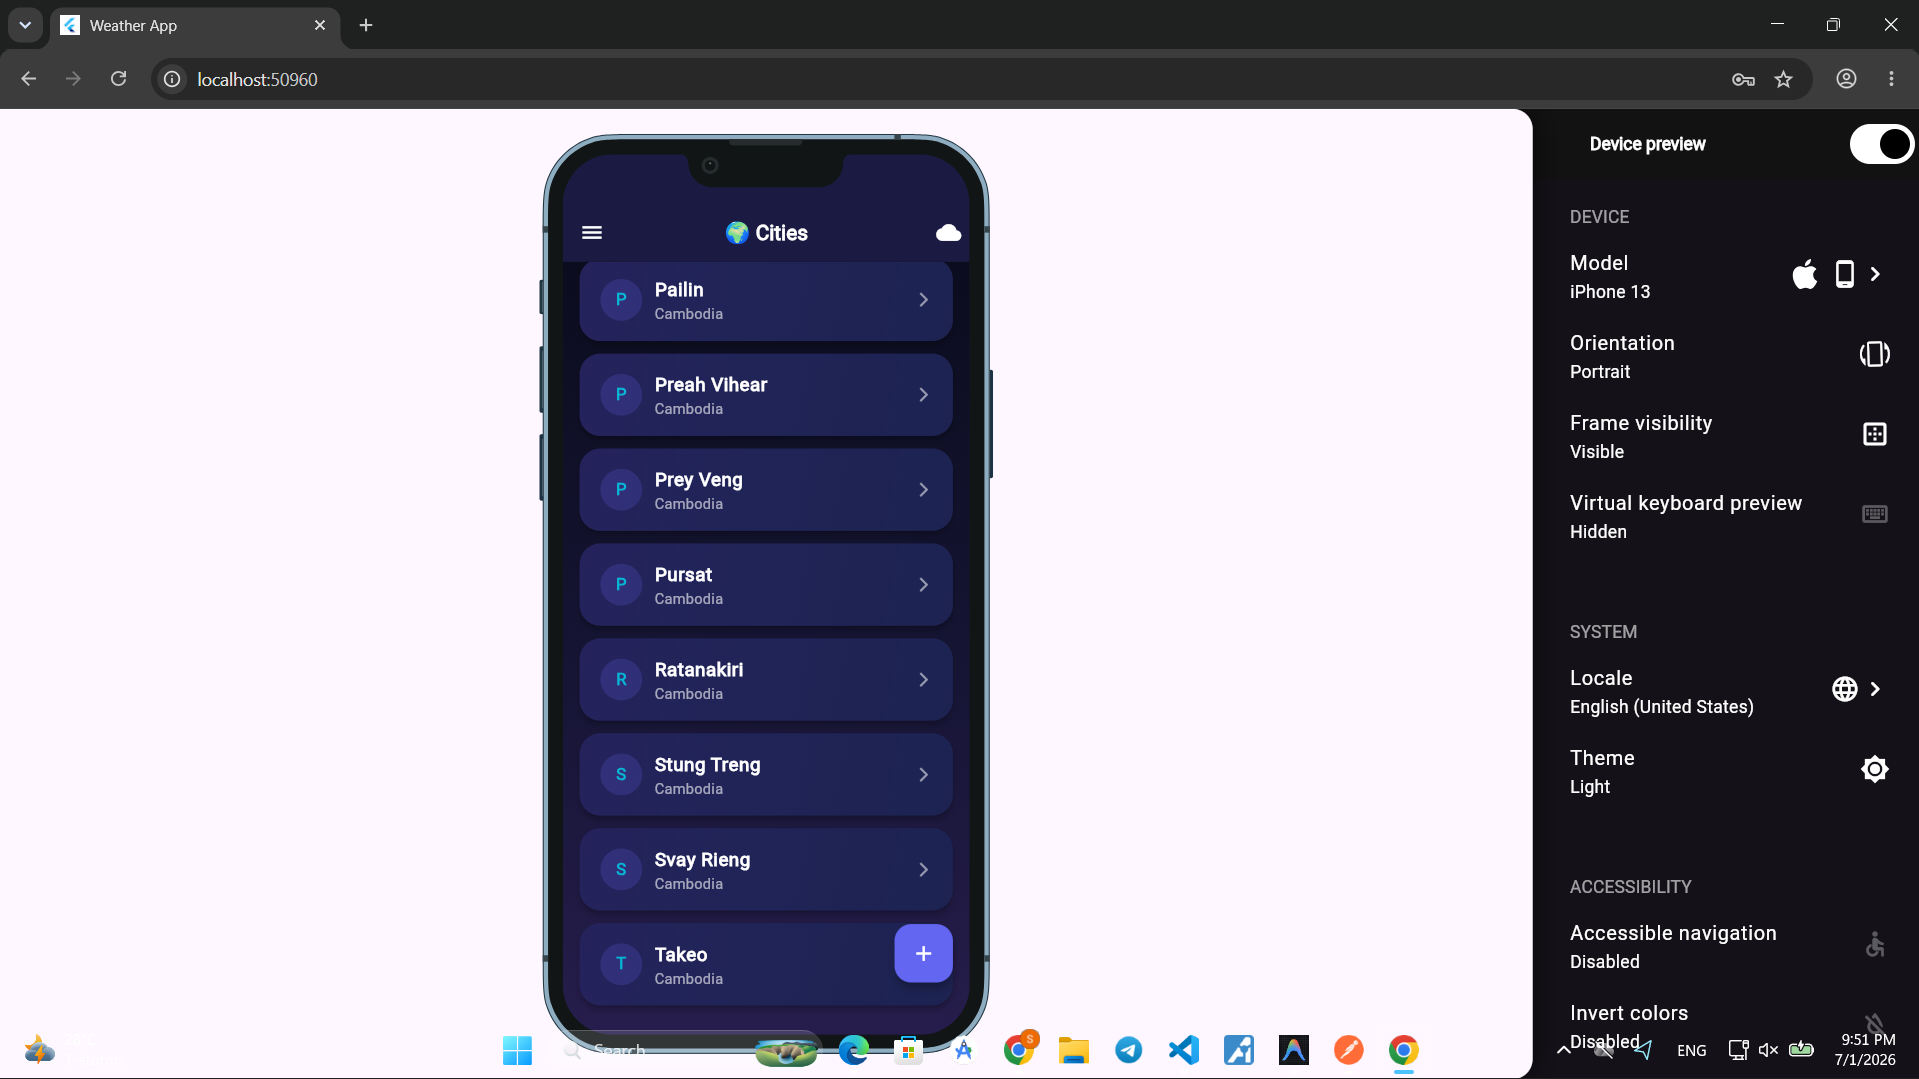
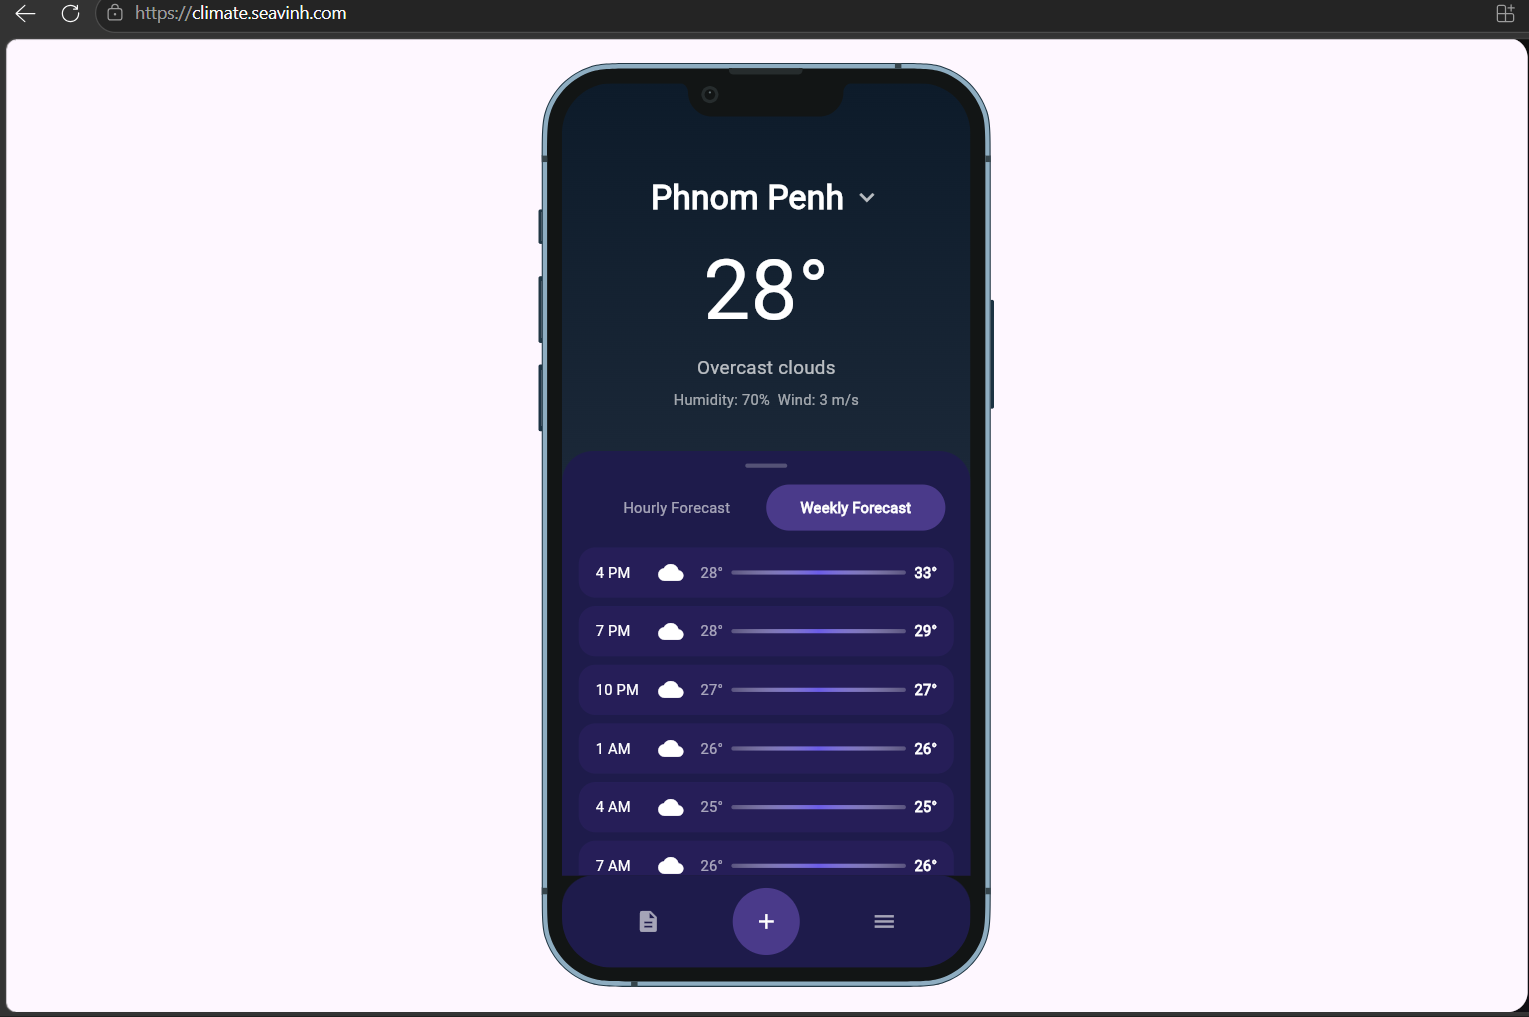
fix ui

diff --git a/src/app/app.ts b/src/app/app.ts
@@ -20,7 +20,7 @@ export class App implements OnInit, AfterViewInit {
 
   skills = [
     'HTML5 & CSS3', 'JavaScript (ES6+)', 'TypeScript',
-    'Angular', 'React', 'Node.js',
+    'Angular', 'Node.js',
     'TailwindCSS', 'Supabase', 'Dart', 'Flutter', 'Laravel',
     'Figma', 'Git'
   ];
@@ -42,7 +42,7 @@ export class App implements OnInit, AfterViewInit {
       title: 'Inventory System',
       description: 'A web-based inventory management system for tracking products, managing stock, and monitoring sales efficiently.',
       techs: ['Angular', 'Node.js', 'MongoDB'],
-      demo: 'https://stock-inventory-frontend-eight.vercel.app/',
+      demo: 'https://inventorypro.seavinh.com',
       github: 'https://github.com/seavinh/stock-inventory-frontend',
       imageUrl: '/image/Inventory.png'
     },
@@ -66,7 +66,7 @@ export class App implements OnInit, AfterViewInit {
       title: 'Football Booking App',
       description: 'A mobile application that allows users to book football fields, manage reservations, and view available time slots.',
       techs: ['flutter', 'dart', 'supabase'],
-      demo: 'https://football-booking-app.vercel.app/#/login',
+      demo: 'https://myfootball.seavinh.com',
       github: 'https://github.com/seavinh/football-booking',
       imageUrl: '/image/football-booking.png'
     },
@@ -76,7 +76,7 @@ export class App implements OnInit, AfterViewInit {
       techs: ['Laravel', 'Angular', 'MySql'],
       demo: 'https://gym.seavinh.com',
       github: 'https://github.com/seavinh/gym',
-      imageUrl: '/image/football-booking.png'
+      imageUrl: '/image/gym.png'
     }
   ];
 